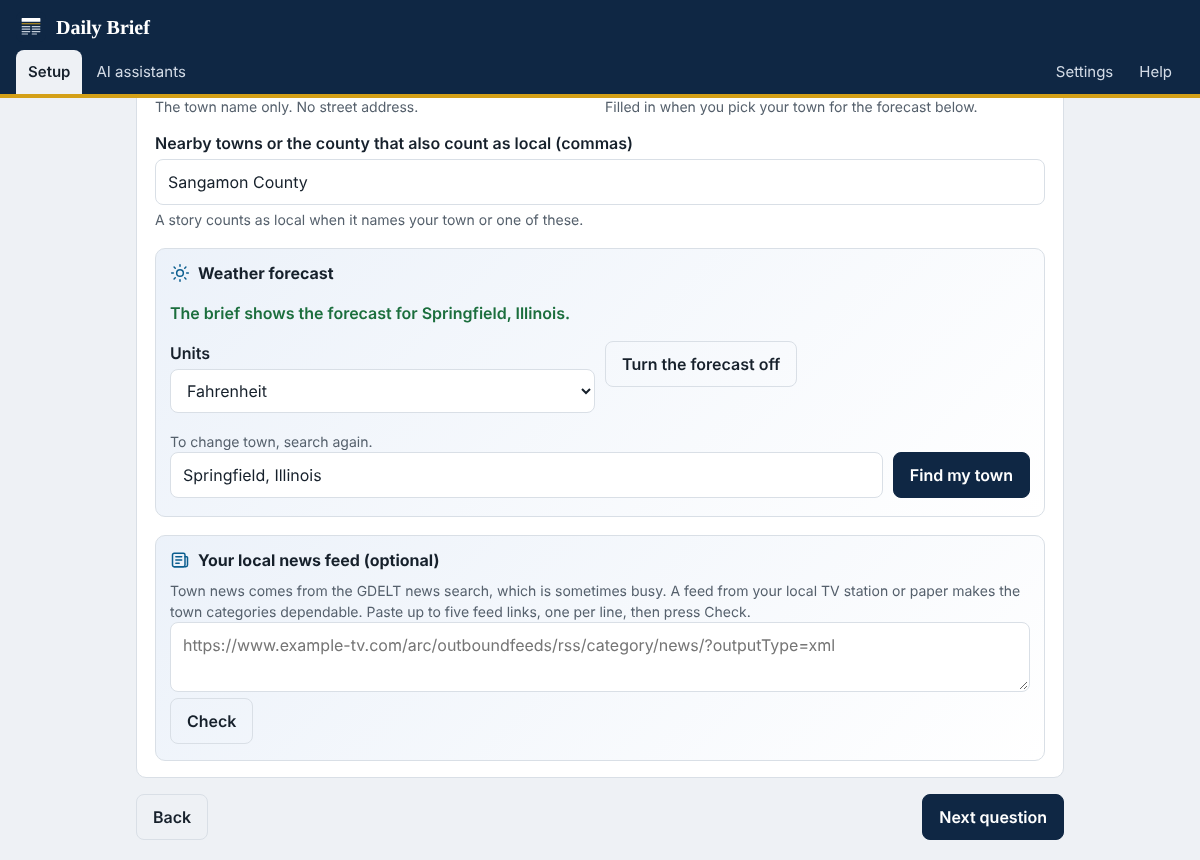
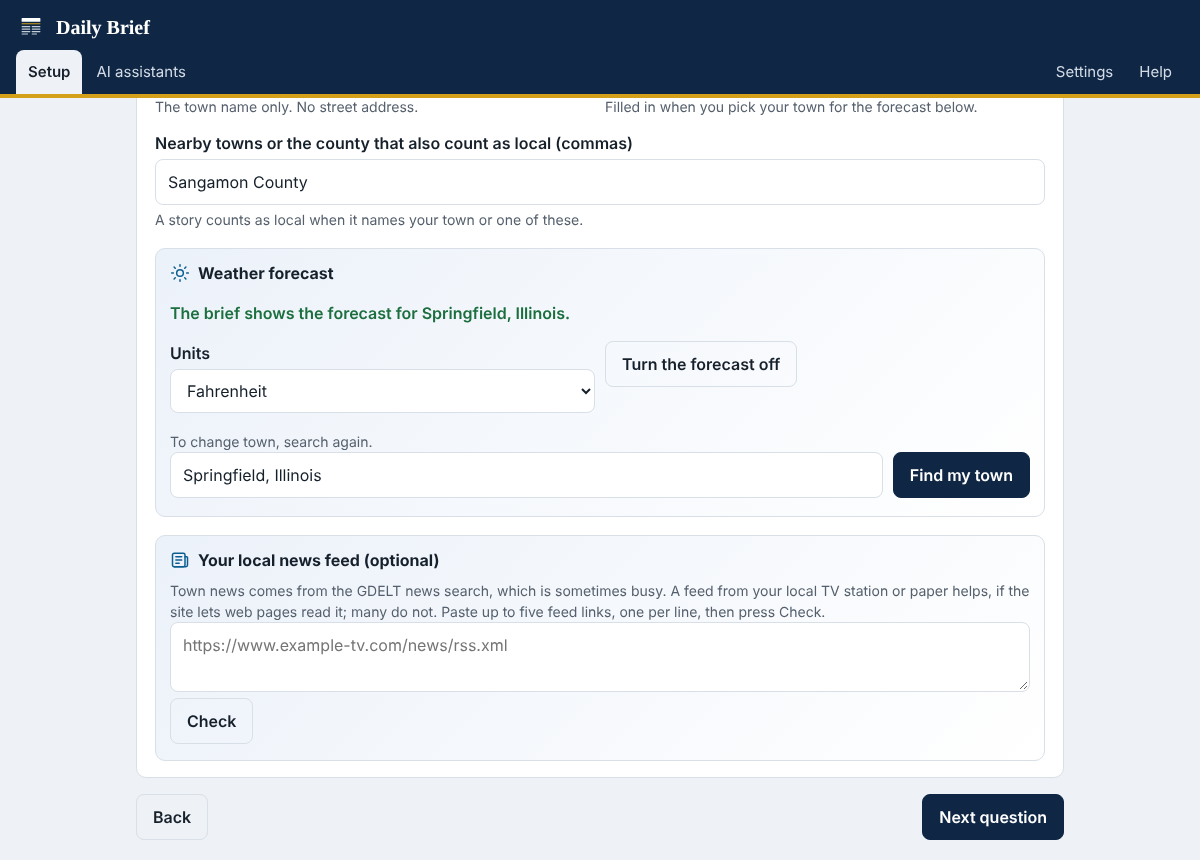
Correct the local feed claim: no tested local feed is dependably readable
A TV station's feed answered a web page once and then refused; its server
sends no permission header. LIMITS and the town question now say so.

Claude-Session: https://claude.ai/code/session_01DFYvtftK7k3zhgkwXZySNS

Changed region(s): [[0.1233, 0.6953, 0.6783, 0.7558], [0.8017, 0.6651, 0.8633, 0.6953]]

diff --git a/app/js/app.js b/app/js/app.js
@@ -498,7 +498,7 @@
     const box = h("div", { class: "wxpick localfeeds" });
     const status = h("div", { class: "hint", "aria-live": "polite" });
     const ta = h("textarea", { rows: 2, id: "localfeeds", value: (r.local_feeds || []).join("\n"),
-      placeholder: "https://www.example-tv.com/arc/outboundfeeds/rss/category/news/?outputType=xml",
+      placeholder: "https://www.example-tv.com/news/rss.xml",
       oninput: e => { r.local_feeds = lines(e.target.value).slice(0, 5); save(); } });
     async function check() {
       const urls = lines(ta.value).slice(0, 5);
@@ -519,7 +519,7 @@
       clear(status).append(h("ul", { class: "plain" }, out));
     }
     add(box, h("h3", null, ico("news", "hi"), "Your local news feed (optional)"));
-    add(box, h("p", { class: "hint", text: "Town news comes from the GDELT news search, which is sometimes busy. A feed from your local TV station or paper makes the town categories dependable. Paste up to five feed links, one per line, then press Check." }));
+    add(box, h("p", { class: "hint", text: "Town news comes from the GDELT news search, which is sometimes busy. A feed from your local TV station or paper helps, if the site lets web pages read it; many do not. Paste up to five feed links, one per line, then press Check." }));
     add(box, ta);
     add(box, h("div", { class: "row" }, h("button", { class: "btn ghost", onclick: check }, "Check")));
     add(box, status);

diff --git a/docs/LIMITS.md b/docs/LIMITS.md
@@ -17,9 +17,11 @@
   asks too often (HTTP 503 and 429, seen on 2026-10-23; after a day of heavy
   testing it refused one home connection for hours). The town categories and
   categories you type yourself depend on it, unless you add a local news feed
-  on the town question. Many local sites do not let web pages read their feeds:
-  of 18 local news feeds tried in one region on 2026-10-24, one (a TV station's
-  news feed on the Arc publishing system) allowed it. The Check button tells.
+  on the town question that allows web pages to read it. Many local sites do
+  not: of 18 local news feeds tried in one region on 2026-10-24, none did
+  dependably (one answered once, then refused; its server sends no permission
+  for other sites). The Check button tells. The desktop app and the GitHub copy
+  read any feed, and add your state to Google News town searches.
   It asks one search at a time, waits six seconds between searches (twelve
   after a refusal), retries a refused search once, and after three refused
   searches in a row uses the feeds alone for the rest of the run. A live run
